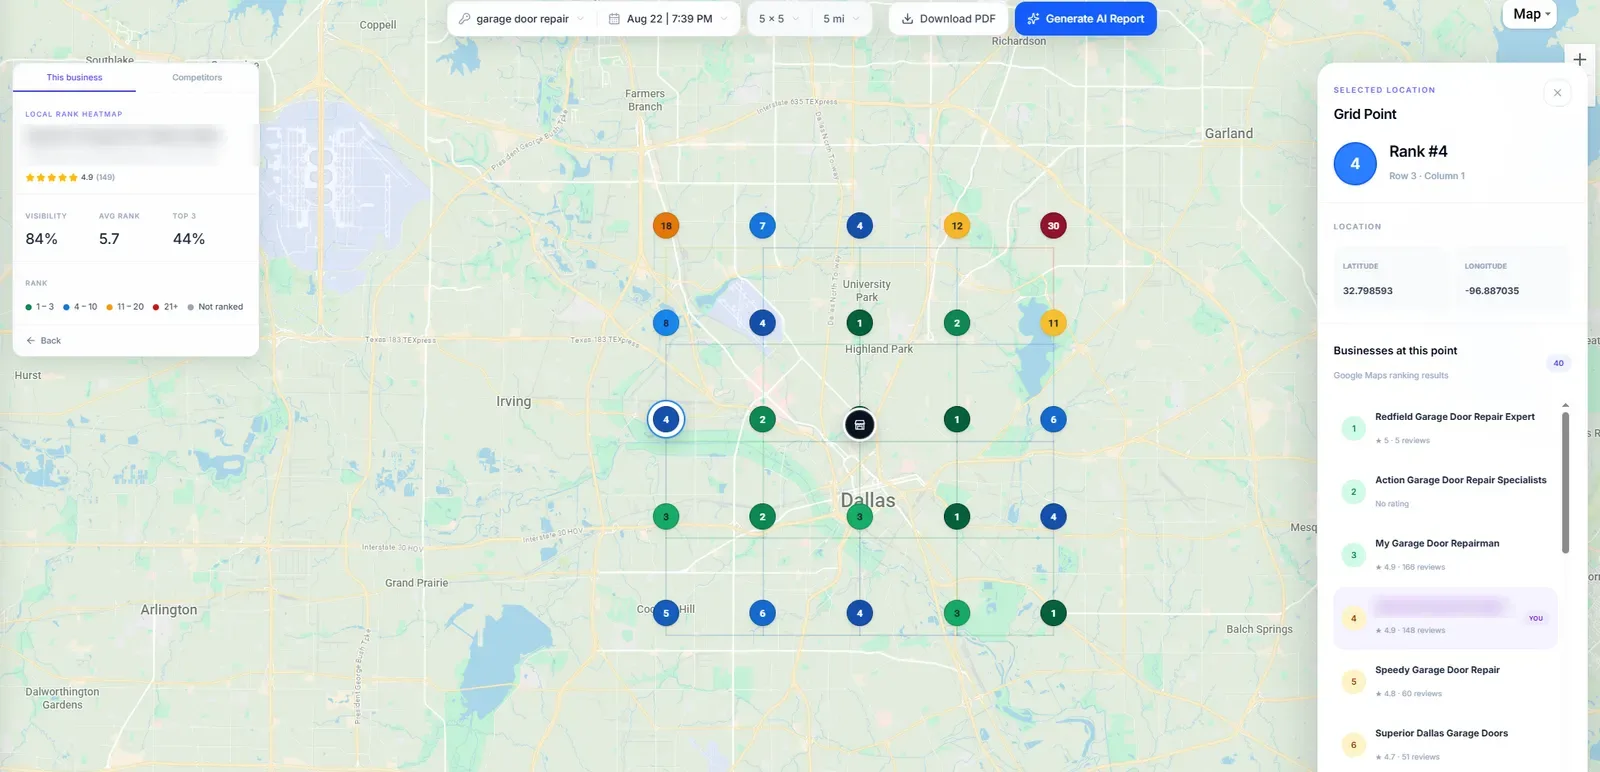
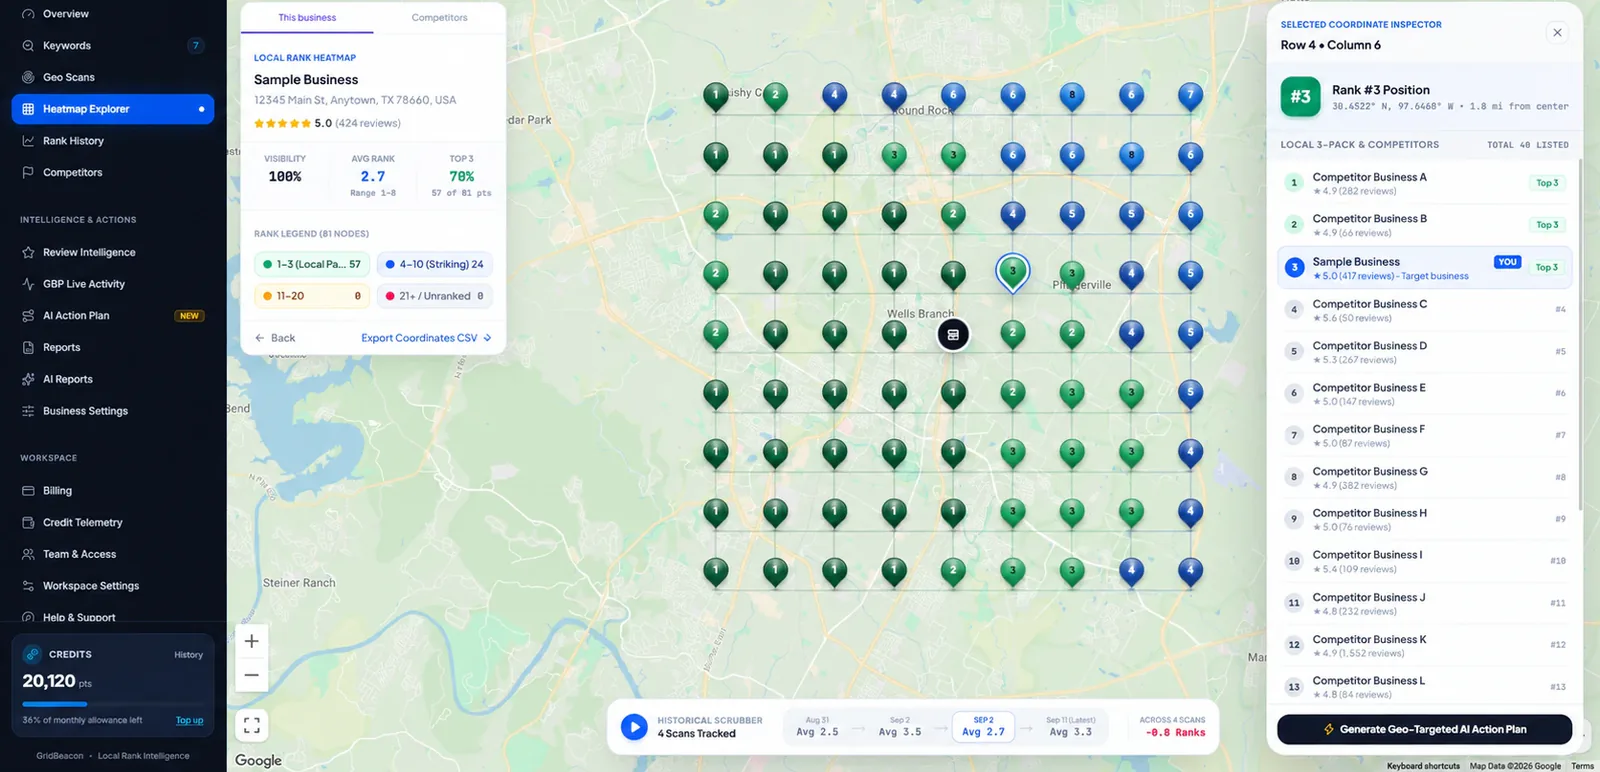
fix(marketing): real screenshots and consistent rank colours on ad and SEO pages
/google-ads
- Heatmap section uses a sharp 5x5 / 3 mi capture (new file, so /reddit
  keeps heatmap-hero.webp); badge now 5x5 / 3.0 mi.
- Legend, copy and both sample grids use the app's bands: green 1-3,
  blue 4-10, amber 11-20, red 21+ (was amber 4-10, red 11+).
- Competitor image is the 9x9 coordinate inspector with placeholder
  names instead of a Dallas capture listing real businesses.

/google-maps-rank-tracker and /local-falcon-alternative
- Same inspector capture replaces grid-point-competitors.webp.
- Business names, addresses and competitor names blurred in
  geo-grid-scan-dallas, rank-movement-heatmap and ai-report-summary.

diff --git a/components/marketing/google-ads/sections.tsx b/components/marketing/google-ads/sections.tsx
@@ -122,7 +122,8 @@ const SAMPLE_TOP3 = SAMPLE_RANKED.filter((rank) => rank <= 3).length;
 function rankDot(rank: number | null) {
   if (rank === null) return "bg-rose-600 text-white";
   if (rank <= 3) return "bg-emerald-600 text-white";
-  if (rank <= 10) return "bg-amber-500 text-[#060c1c]";
+  if (rank <= 10) return "bg-blue-600 text-white";
+  if (rank <= 20) return "bg-amber-500 text-[#060c1c]";
   return "bg-rose-600 text-white";
 }
 
@@ -180,9 +181,9 @@ function HeroHeatmap() {
             </span>
           </div>
           <div className="bg-[#0b1329]/95 rounded-xl px-3 py-2 border border-slate-700 shadow-xl text-white flex items-center gap-2.5">
-            <span className="w-2 h-2 rounded-full bg-amber-400" />
+            <span className="w-2 h-2 rounded-full bg-rose-400" />
             <span>
-              <span className="block font-semibold text-amber-400 text-[11px]">Outer-edge gaps</span>
+              <span className="block font-semibold text-rose-400 text-[11px]">Outer-edge gaps</span>
               <span className="block text-[11px] text-slate-300">Outside the top 20 in two corners</span>
             </span>
           </div>
@@ -355,15 +356,15 @@ export function HeatmapSection() {
               Every dot is a Google Maps search from a different location.
             </h2>
             <p className="text-slate-600 leading-relaxed text-base">
-              GridBeacon searches your keyword from each point in the grid and records where your business appears. Green is the top 3, amber is 4–10, and red is where customers struggle to find you.
+              GridBeacon searches your keyword from each point in the grid and records where your business appears. Green is the top 3, blue is 4–10, and amber and red are where customers struggle to find you.
             </p>
 
             <div className="grid grid-cols-1 sm:grid-cols-2 gap-2.5">
               {[
                 ["bg-emerald-600", "1 – 3", "Google 3-pack"],
-                ["bg-amber-500", "4 – 10", "Close to the top"],
-                ["bg-orange-500", "11 – 20", "Hard to find"],
-                ["bg-rose-600", "20+", "Not visible"],
+                ["bg-blue-600", "4 – 10", "Close to the top"],
+                ["bg-amber-500", "11 – 20", "Hard to find"],
+                ["bg-rose-600", "21+", "Not visible"],
               ].map(([color, band, label]) => (
                 <div key={band} className="p-3 rounded-xl border border-slate-200 bg-white flex items-center gap-2.5">
                   <span className={`w-3.5 h-3.5 rounded-full flex-shrink-0 ${color}`} />
@@ -385,10 +386,10 @@ export function HeatmapSection() {
                   <span className="w-2 h-2 rounded-full bg-emerald-500" />
                   <span className="text-slate-300 font-mono text-[11px] ml-2">GridBeacon heatmap · product screenshot</span>
                 </div>
-                <span className="px-2 py-0.5 bg-slate-800 text-slate-300 rounded font-mono text-[11px]">5×5 · 5.0 mi</span>
+                <span className="px-2 py-0.5 bg-slate-800 text-slate-300 rounded font-mono text-[11px]">5×5 · 3.0 mi</span>
               </div>
               <div className="relative rounded-xl overflow-hidden border border-slate-700/80 mt-2">
-                <Image src="/marketing/reddit/heatmap-hero.webp" alt="GridBeacon heatmap of a real 5 by 5 Google Maps scan in Dallas: each dot is the business's rank at that point; business name blurred" className="w-full h-auto object-cover rounded-lg ads-product-image" width={1600} height={780} sizes="(max-width: 1023px) 100vw, 720px" loading="lazy" />
+                <Image src="/marketing/google-ads/heatmap-5x5.webp" alt="GridBeacon heatmap of a 5 by 5 Google Maps scan across the Dallas suburbs: each pin is the business's rank at that point" className="w-full h-auto object-cover rounded-lg ads-product-image" width={1600} height={780} sizes="(max-width: 1023px) 100vw, 720px" loading="lazy" />
               </div>
             </div>
           </div>
@@ -431,7 +432,7 @@ export function ProximitySection() {
               <div className="grid grid-cols-5 gap-2 text-center text-xs font-bold">
                 {["20+", "16", "9", "5", "18", "7", "2", "1", "3", "8", "6", "1", "1", "2", "12"].map((rank, index) => {
                   const value = rank === "20+" ? 21 : Number(rank);
-                  const color = value <= 3 ? "bg-emerald-600 text-white" : value <= 10 ? "bg-amber-500 text-[#060c1c]" : "bg-rose-600 text-white";
+                  const color = value <= 3 ? "bg-emerald-600 text-white" : value <= 10 ? "bg-blue-600 text-white" : value <= 20 ? "bg-amber-500 text-[#060c1c]" : "bg-rose-600 text-white";
                   return <div key={index} className={`p-1.5 rounded ${color}`}>{rank}</div>;
                 })}
               </div>
